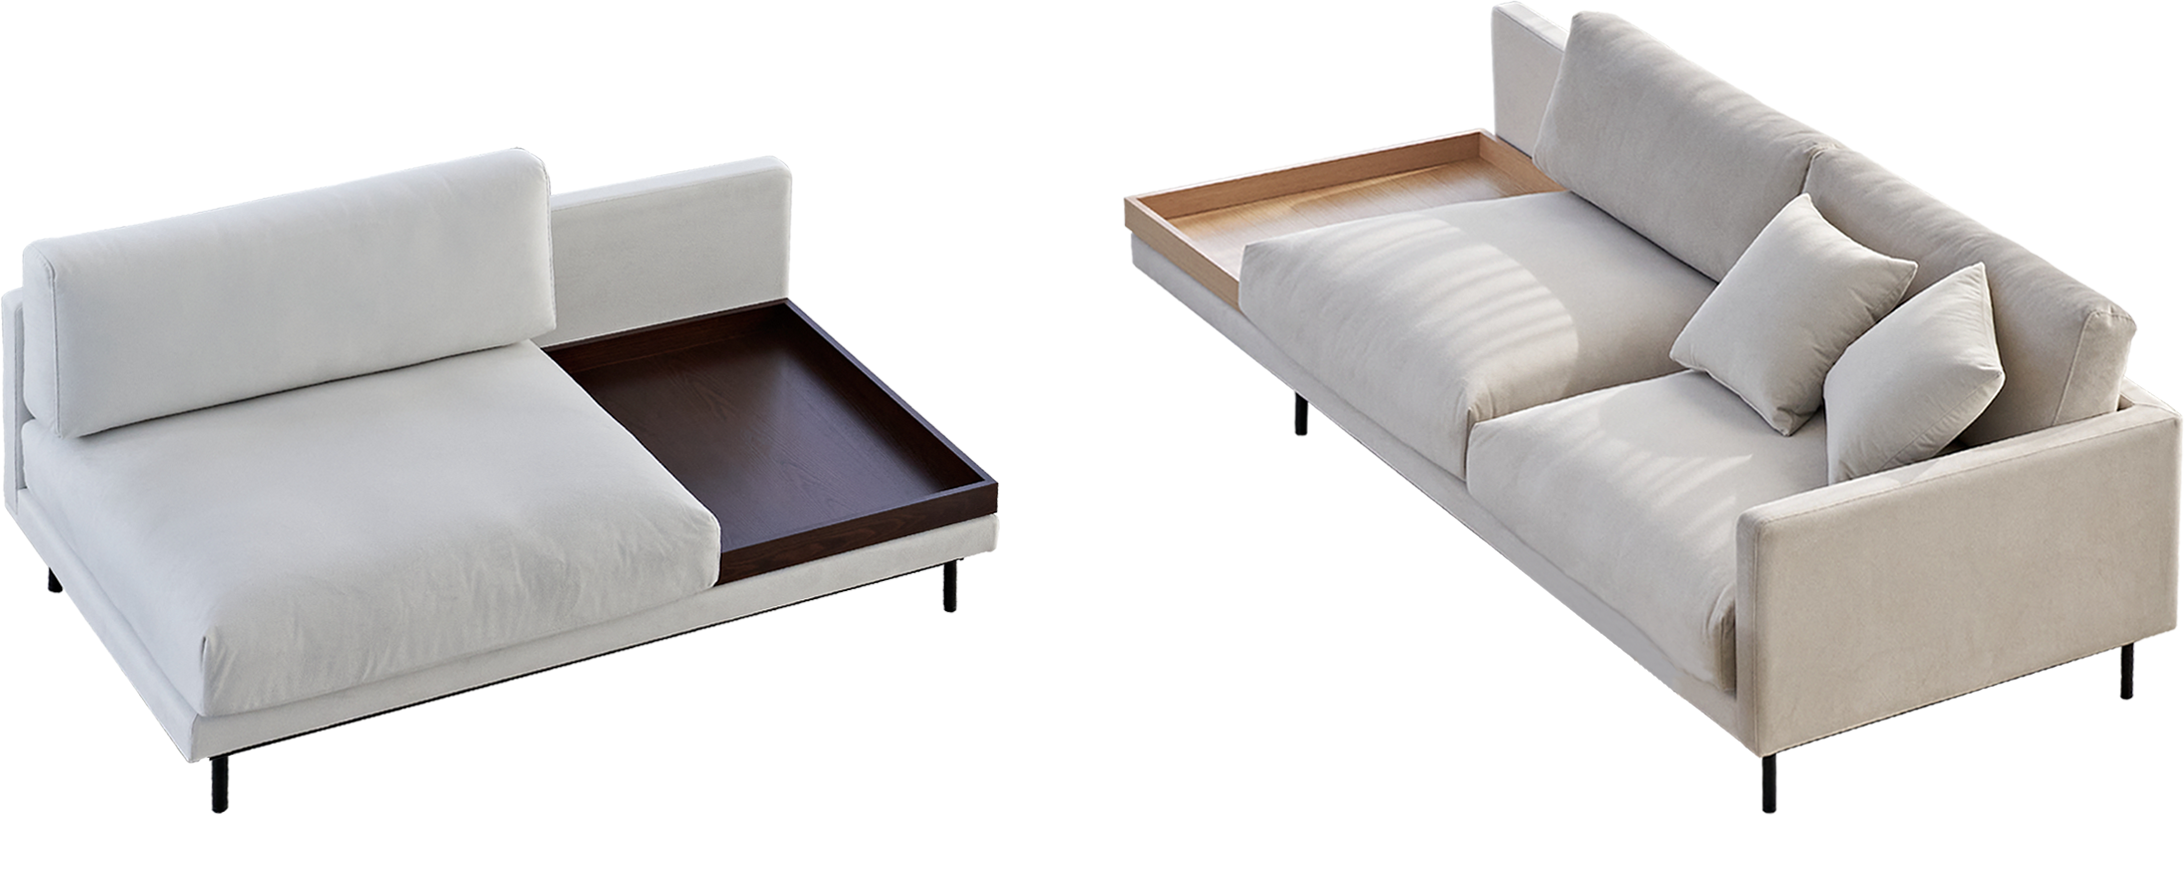
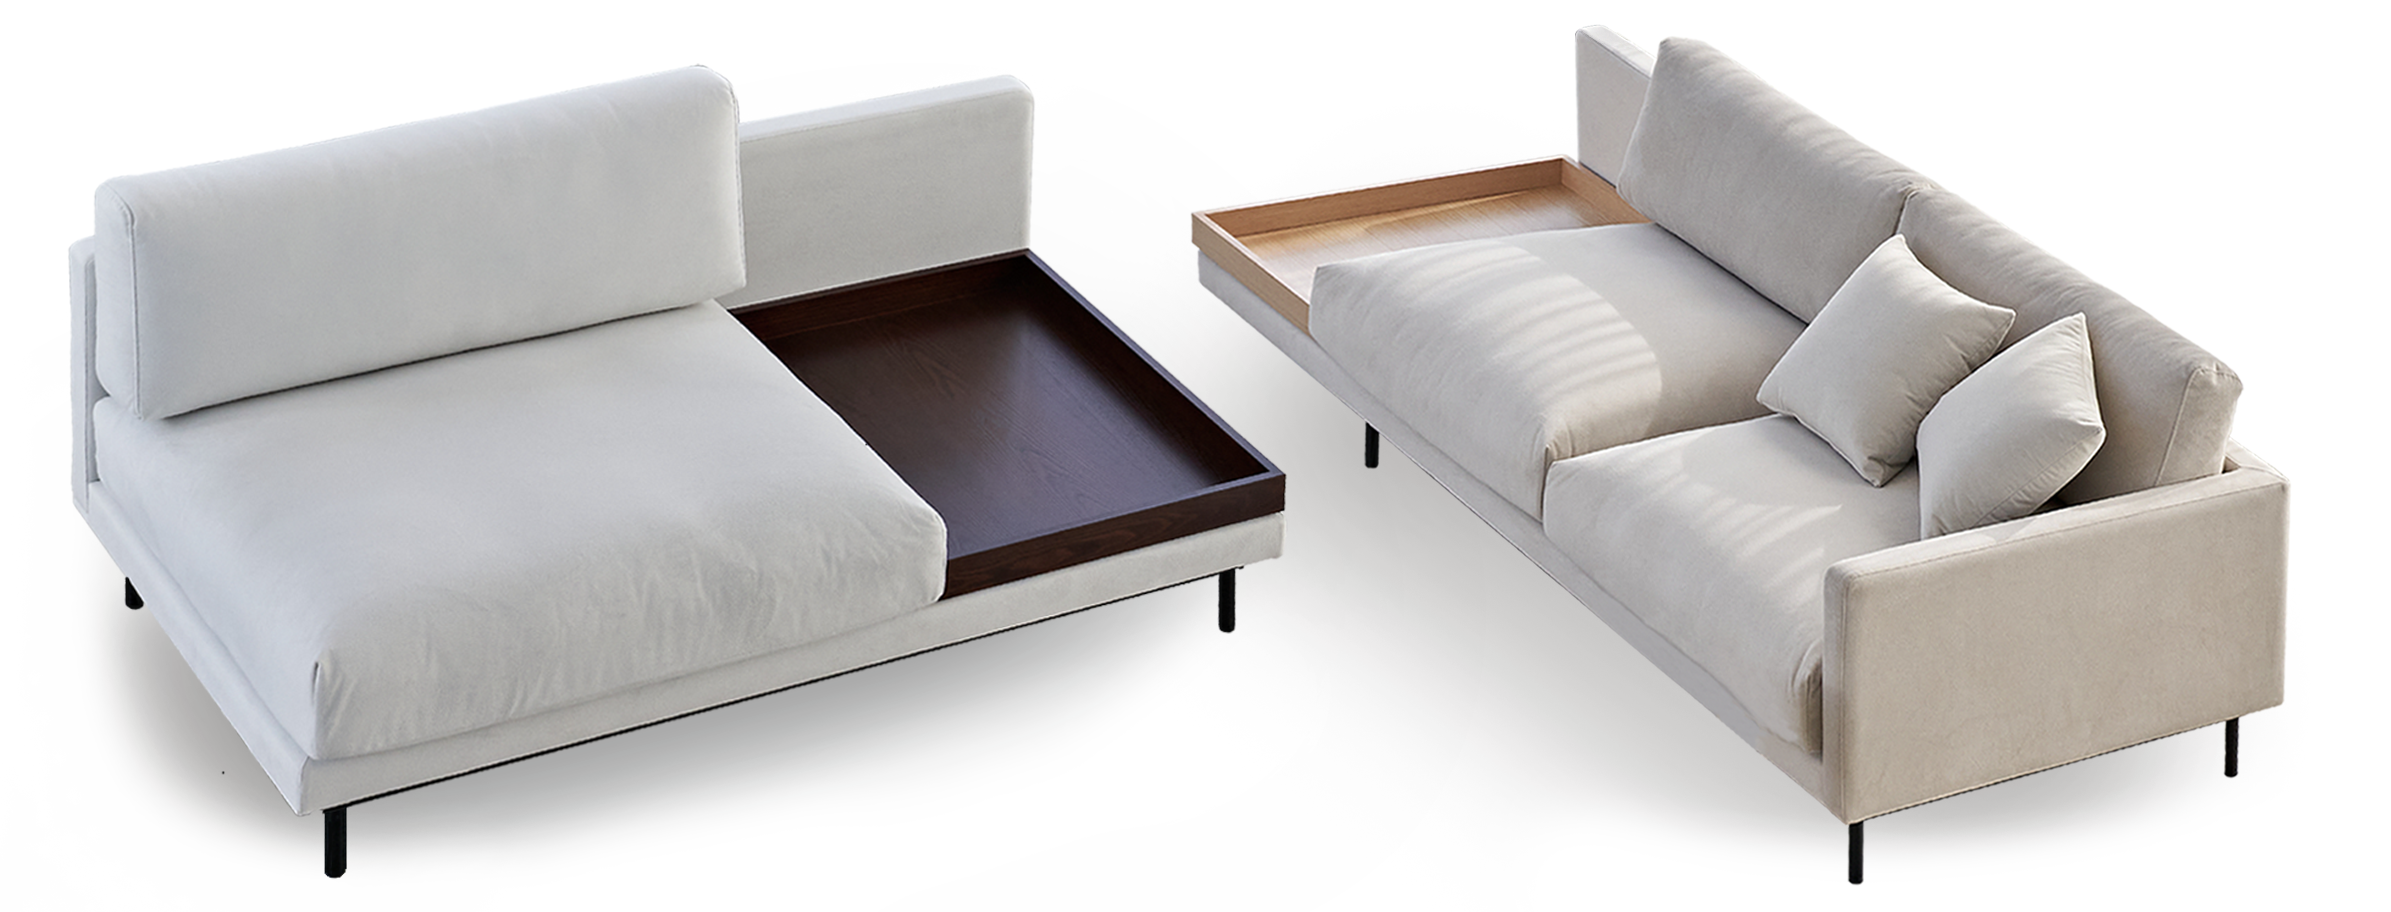
210813-3

diff --git a/plantlance1-css/plantlance1.css b/plantlance1-css/plantlance1.css
@@ -197,22 +197,30 @@ nav{
     cursor: pointer;
 }
 #main .main-button:hover{
-    color:#fff;
+    /*
     border:1px solid #bab86c;
     background: #bab86c;
+    */
+    border: 1px solid #f2ebde;
+    background:#f2ebde;
 }
 #main .main-button:hover a{
-    color:#fff;
+    color:#292929;
 }
 
 #main .main2{
     position: relative;
     height:450px;
-    background: #EEEFF1;
+    background: #fcfbf9;
 }
 #main .mainimg2{
+    width:1000px;
+    margin:0 auto;
+}
+/*
+#main .mainimg2{
     position: absolute;
-    width:1200px;
+    width:1000px;
     top:50%;
     left:50%;
     transform: translate(-50%,-50%);
@@ -224,6 +232,7 @@ nav{
     top:200px;
     left:50%;
     transform: translate(-50%,-50%);
+    
 }
 #main .main2 .main-txt{
     position: absolute;
@@ -238,7 +247,7 @@ nav{
     transform: translate(-50%,-50%);
     z-index: 5;
 }
-
+*/
 #main .main3{
     height:450px;
 }
@@ -275,7 +284,7 @@ nav{
     background: #EEEFF1;
 }
 #main .main5{
-    background: #F9F6F0;
+    background: #fcfbf9;
 }
 #main .mainimg4, #main .mainimg5{
     width:500px;

diff --git a/plantlance1.html b/plantlance1.html
@@ -87,7 +87,7 @@
                 <p class="main-button"><a href="#none">제품 보기</a></p>
 
 
-                <img src="plantlance-img/main2-9.png" alt="main-img" class="mainimg mainimg2">
+                <img src="plantlance-img/main2-8.png" alt="main-img" class="mainimg mainimg2">
             </div>
 
             <div class="main3">
